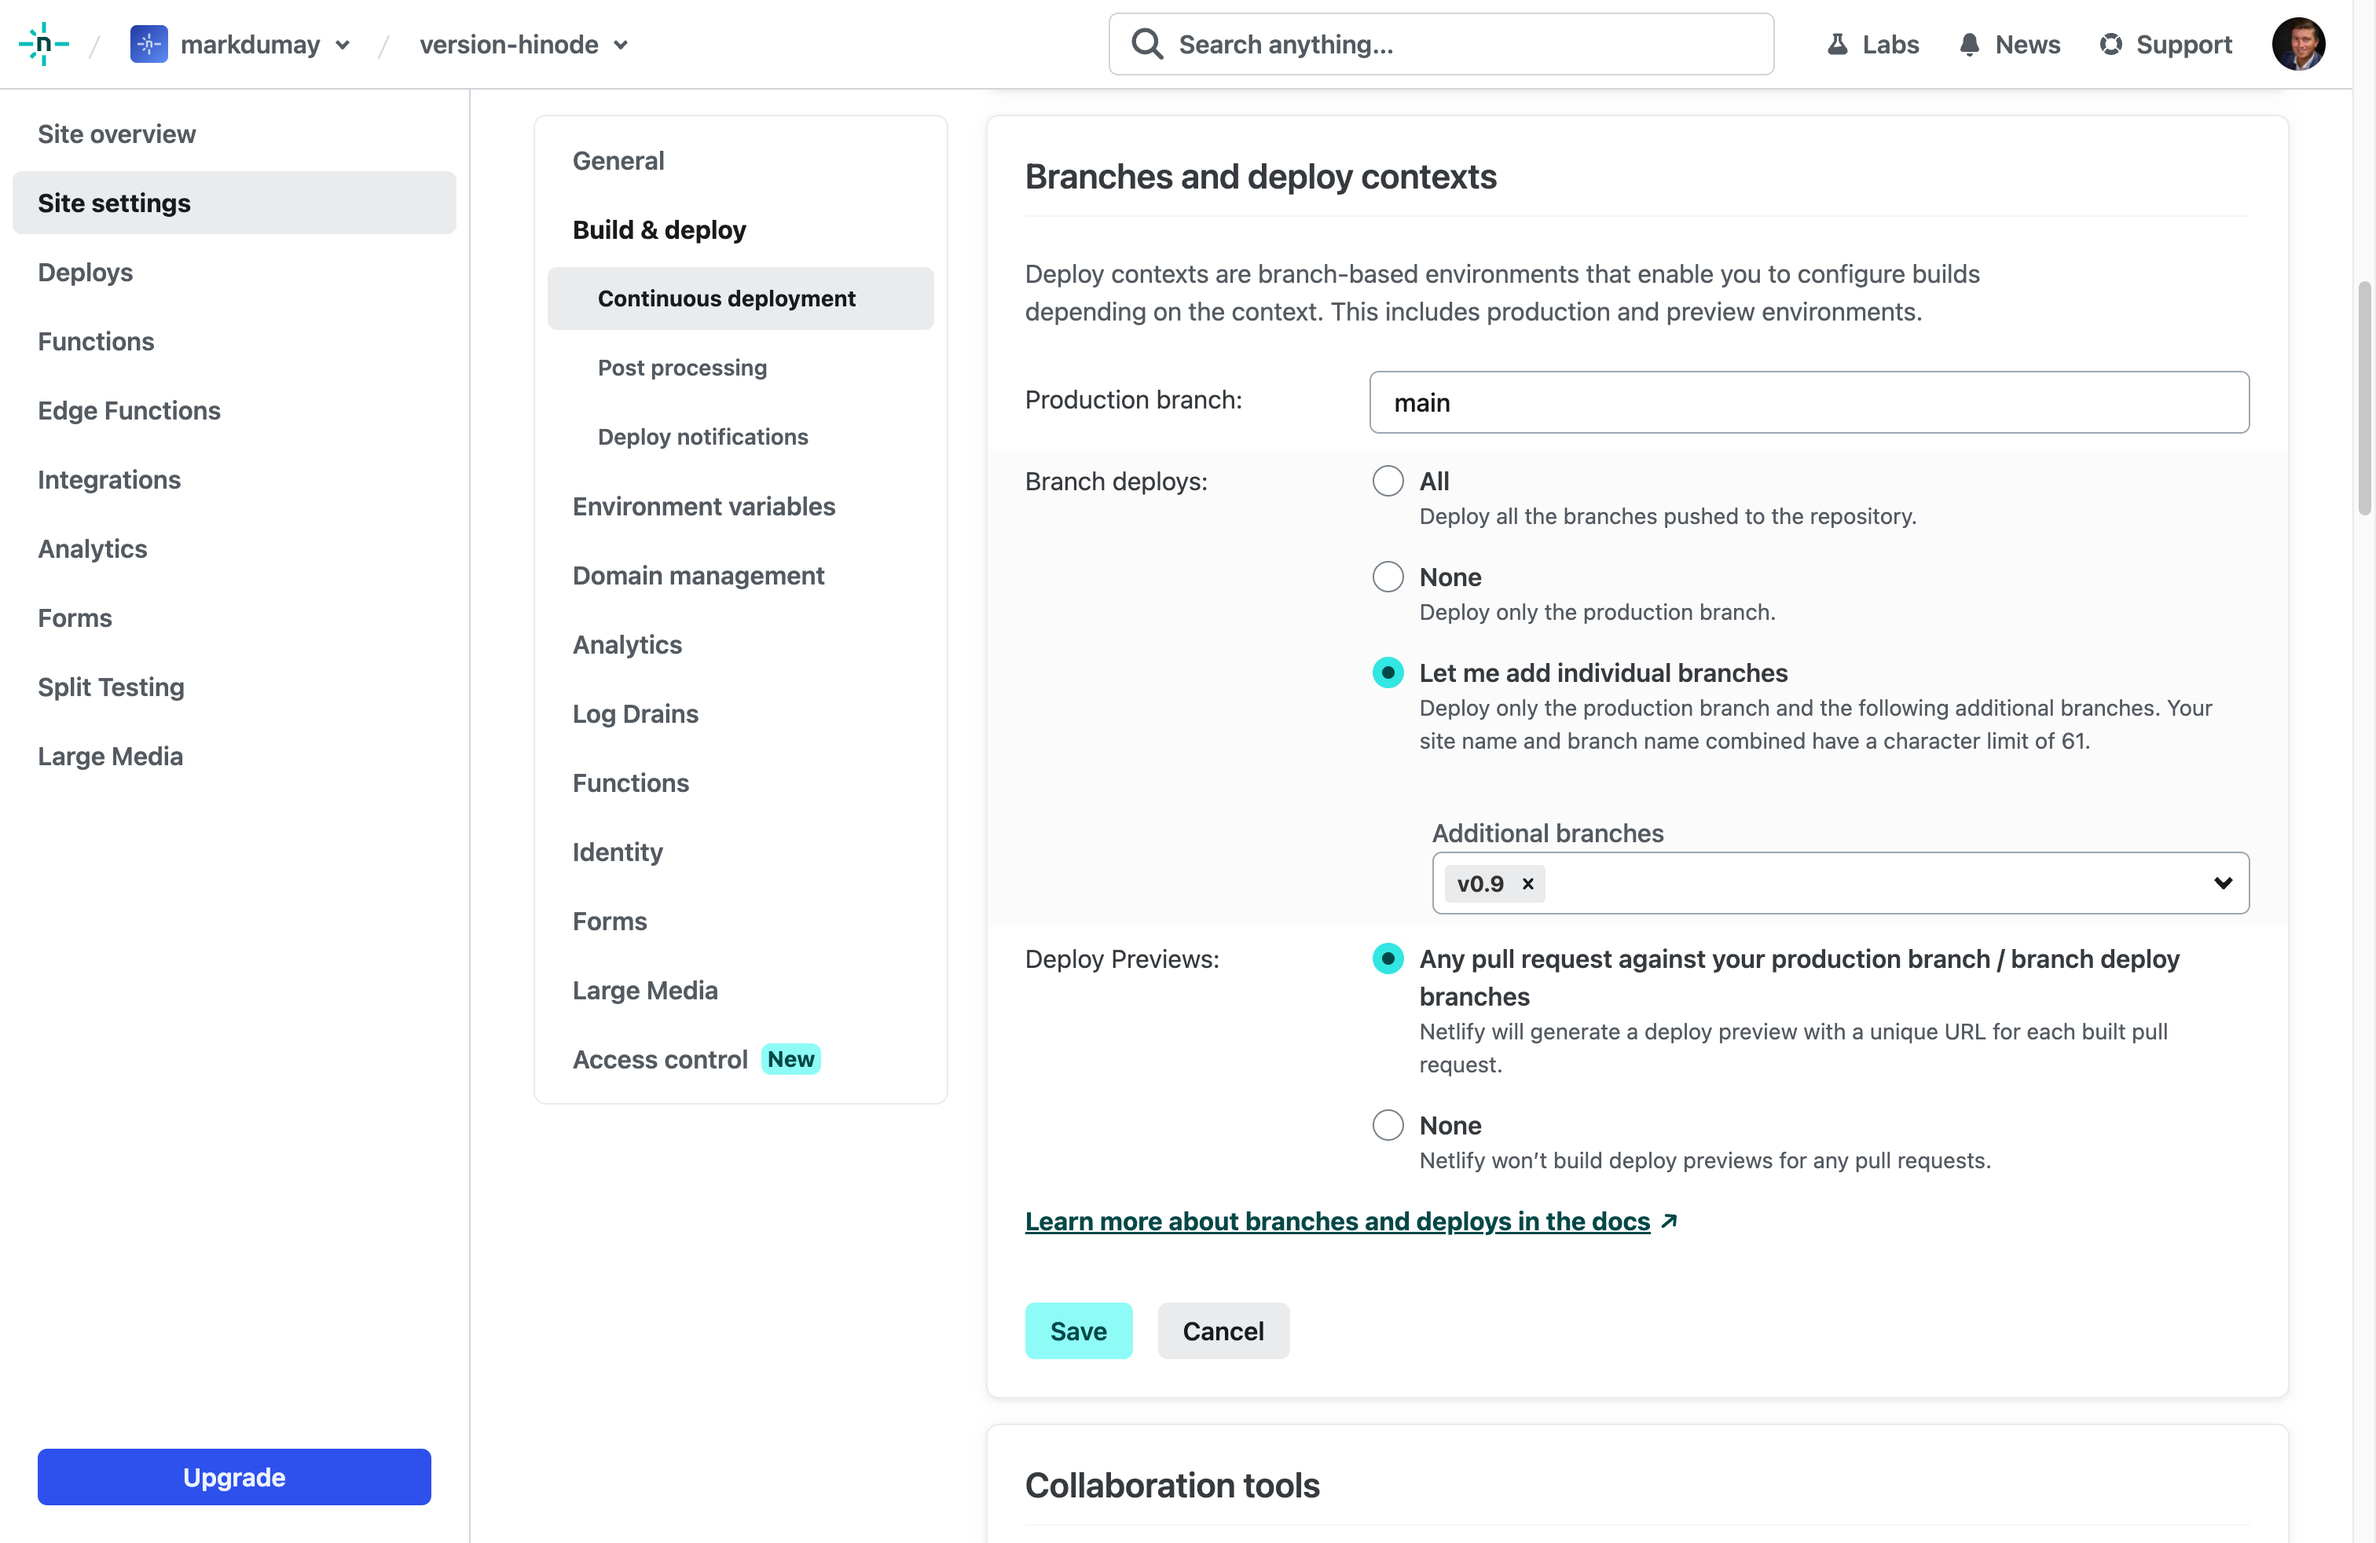
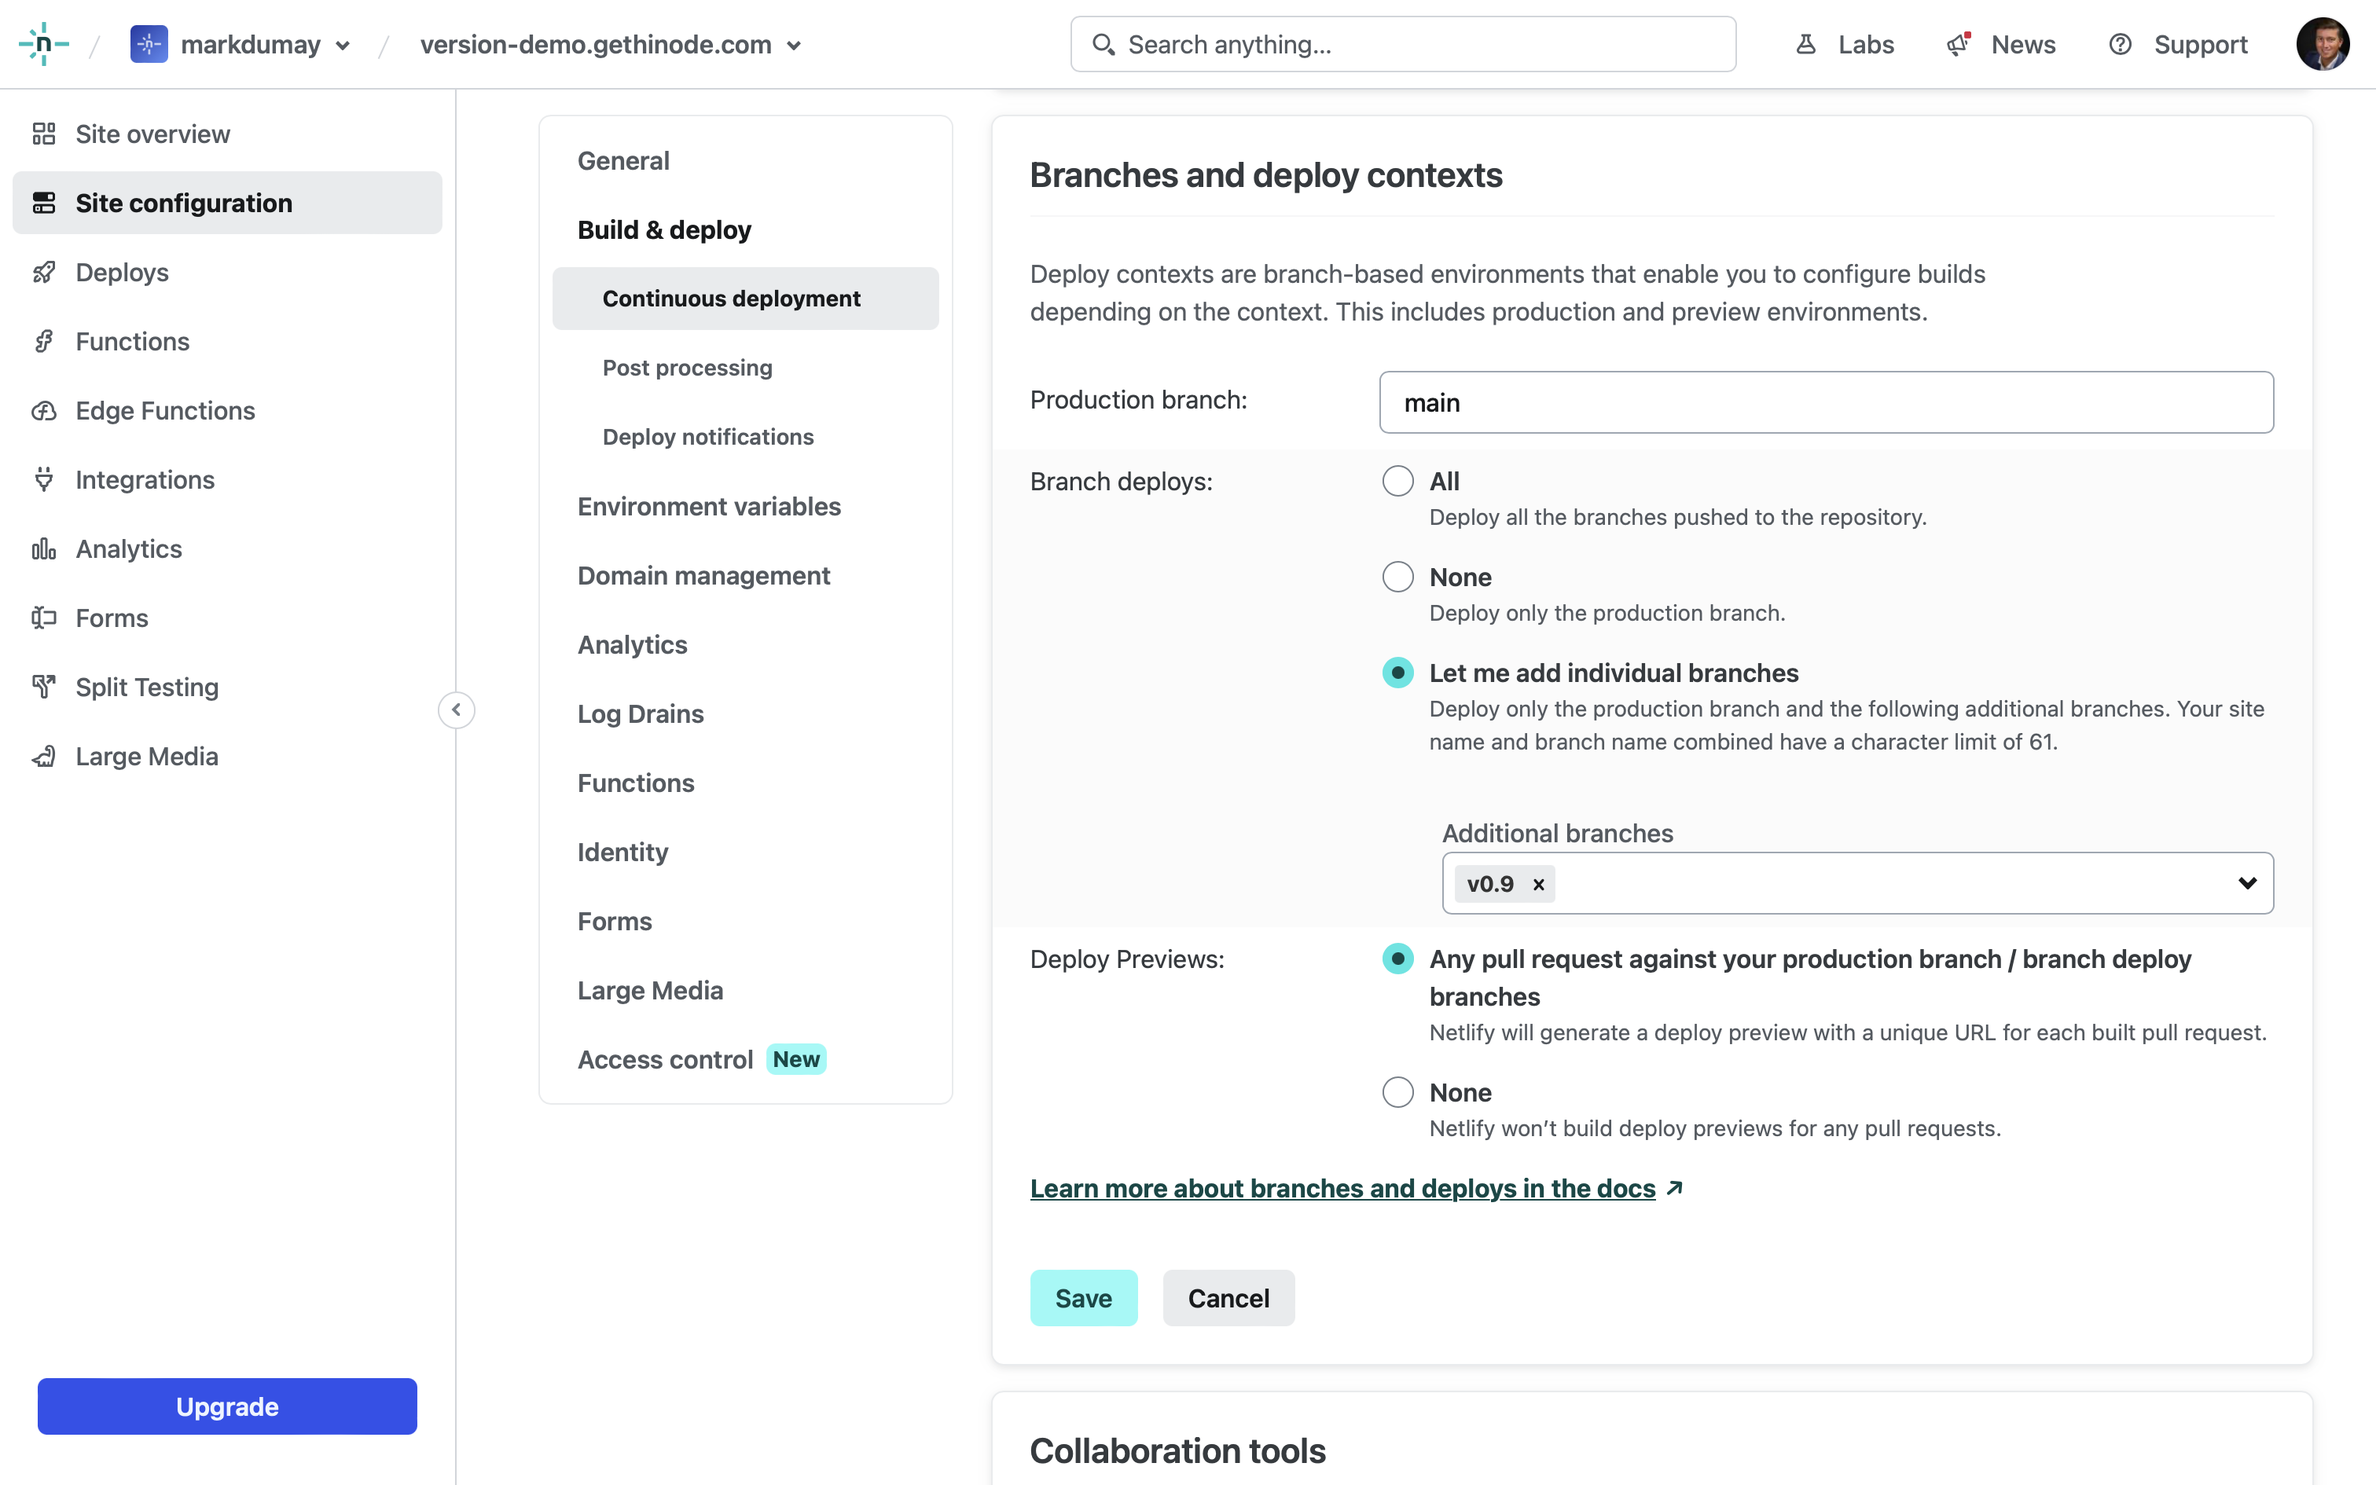
Adapt Netlify renaming to site configuration

diff --git a/content/en/guides/versioning.md b/content/en/guides/versioning.md
@@ -1,7 +1,7 @@
 ---
 title: Creating versioned documentation
 description: Guide on how to create versioned documentation using folders and branch deployments.
-date: 2023-06-26
+date: 2023-07-04
 tags: ["guide", "versioning"]
 weight: 40
 thumbnail: img/books.jpg
@@ -229,7 +229,7 @@ baseURL = "https://{branch}--{sitename}.netlify.app/"
   {{< image src="img/versioning-branch.png" caption="Configure Netlify branch deployment" class="border" >}}
 </div>
 
-Head over to your Netlify configuration and navigate to the section `Site settings / Build & deploy / Continuous deployment`. Next, scroll to the section `Branches and deploy contexts` and click the button `Edit settings`. Select the option `Let me add individual branches` for `Branch deploys`. In the text field, enter `v0.9` as branch name. When done, click `Save`.
+Head over to your Netlify configuration and navigate to the section `Site configuration / Build & deploy / Continuous deployment`. Next, scroll to the section `Branches and deploy contexts` and click the button `Configure`. Select the option `Let me add individual branches` for `Branch deploys`. In the text field, enter `v0.9` as branch name. When done, click `Save`.
 
 {{< alert >}}
 By default, any changes submitted to the `v0.9` branch are processed and released to production immediately. Set up branch protection rules and automated testing (similar to the `main` branch) as needed.
